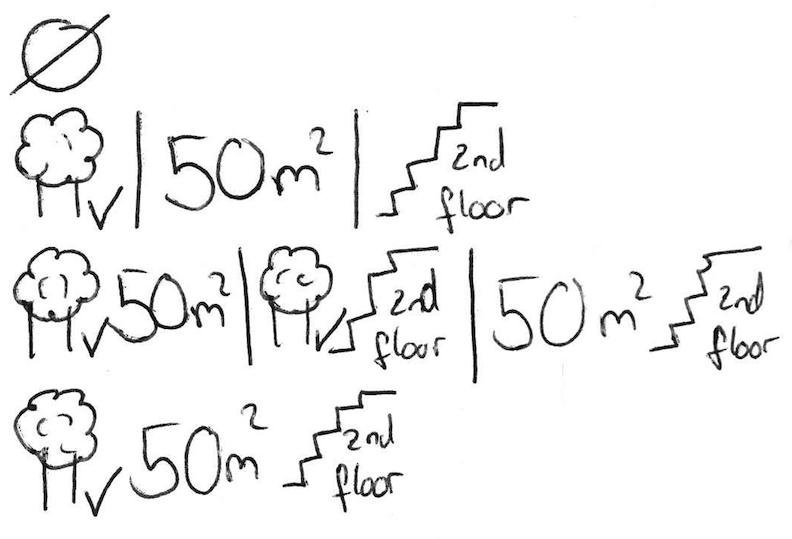
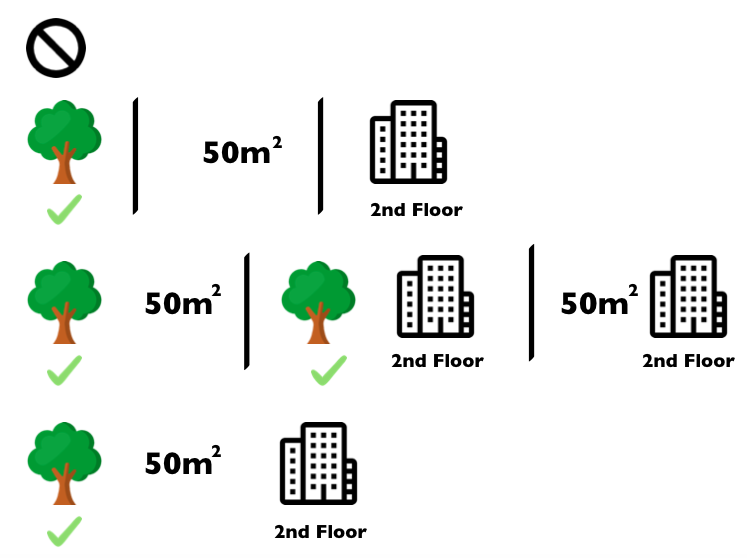
adds improved shapley images #20

diff --git a/README.md b/README.md
@@ -43,9 +43,10 @@ browseURL('_book/index.html')
 
 ## Changelog
 All notable changes to the book will be documented here.
+
 ### v0.4 (IN PROGRESS)
 - Added chapter on global surrogate models
-- 
+- Added improved Shapley pictograms
 
 ### v0.3 (2018-04-24)
 - Reworked the Feature Importance Chapter
